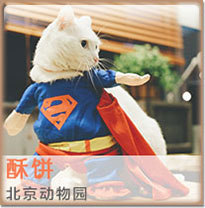
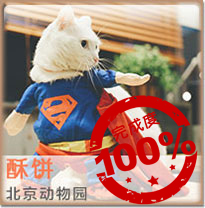
UPDATE

Changed region(s): [[0.439, 0.4327, 0.9659, 1.0]]

diff --git a/server/dc/protected/views/social/activity_view_660.php b/server/dc/protected/views/social/activity_view_660.php
@@ -51,8 +51,10 @@ $signPackage = $jssdk->GetSignPackage();
 		<div class="act2_range">
 			<div class="hr_10"></div>
 			<div class="target_Box clearfix">
-				<div class="target">目标<span class="target_num" id="target_num">243000</span>还剩 <span class="target_num" id="target_num"><?php echo 243000-$food ?></span> 份口粮</div>
-				<div class="d_time" id="d_time"></div>
+				<!-- <div class="target">目标<span class="target_num" id="target_num">243000</span>还剩 <span class="target_num" id="target_num"><?php echo 243000-$food ?></span> 份口粮</div>
+				<div class="d_time" id="d_time"></div> -->
+                <div class="target">目标<span class="target_num" id="target_num">243000</span>达成！</div>
+                <div class="d_time">达成时间：2015年1月20日13时52分</div>
 			</div>
 			<div class="hr_10"></div>
 			<div class="aprogressbar">
